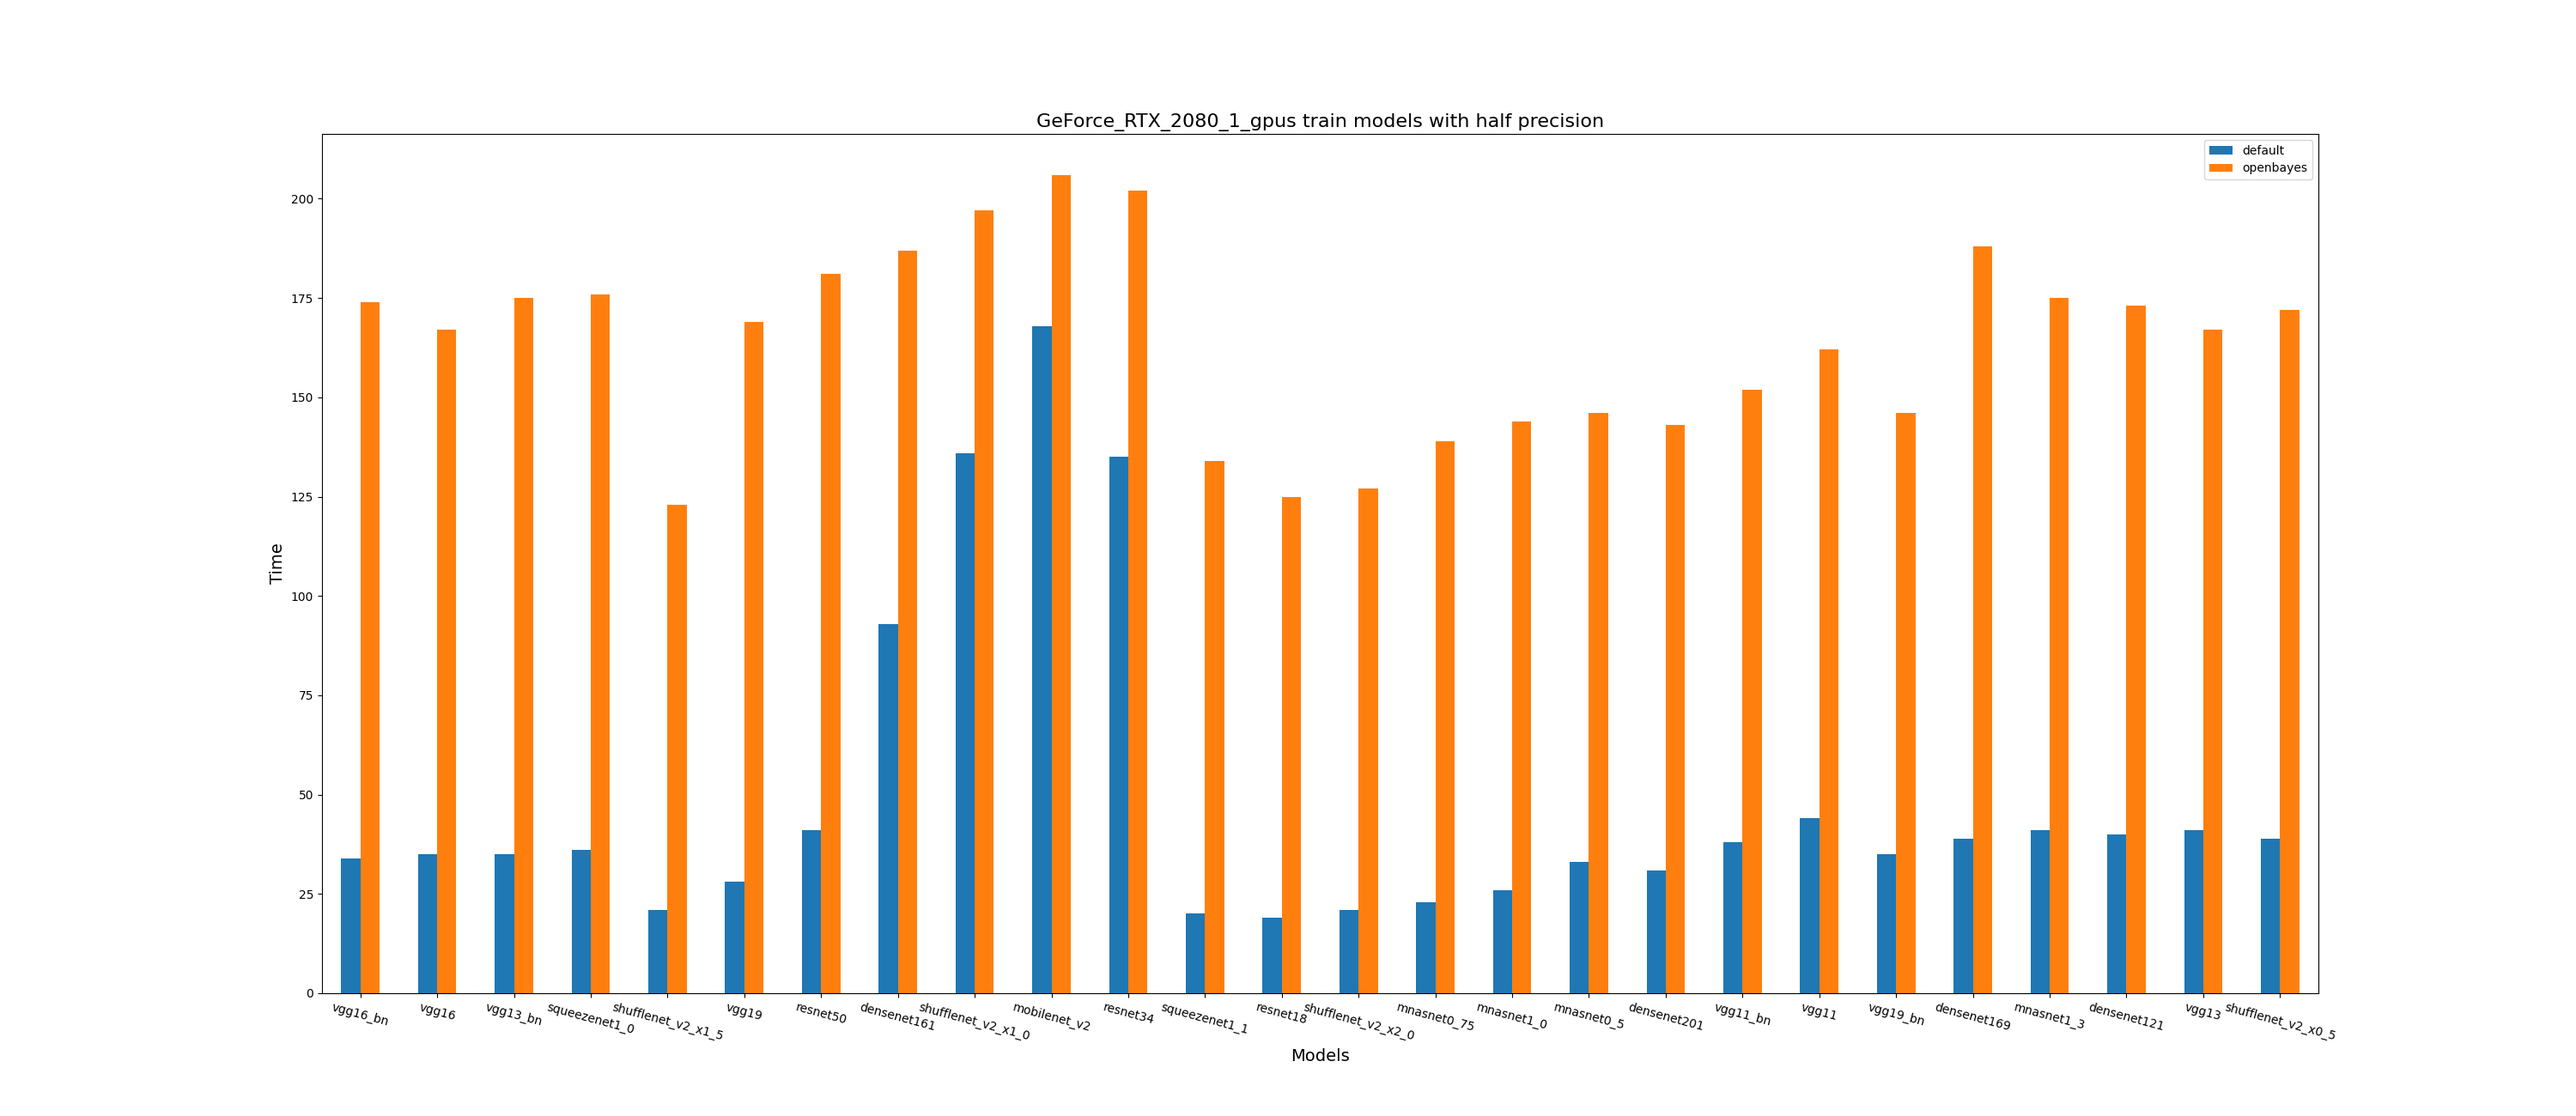
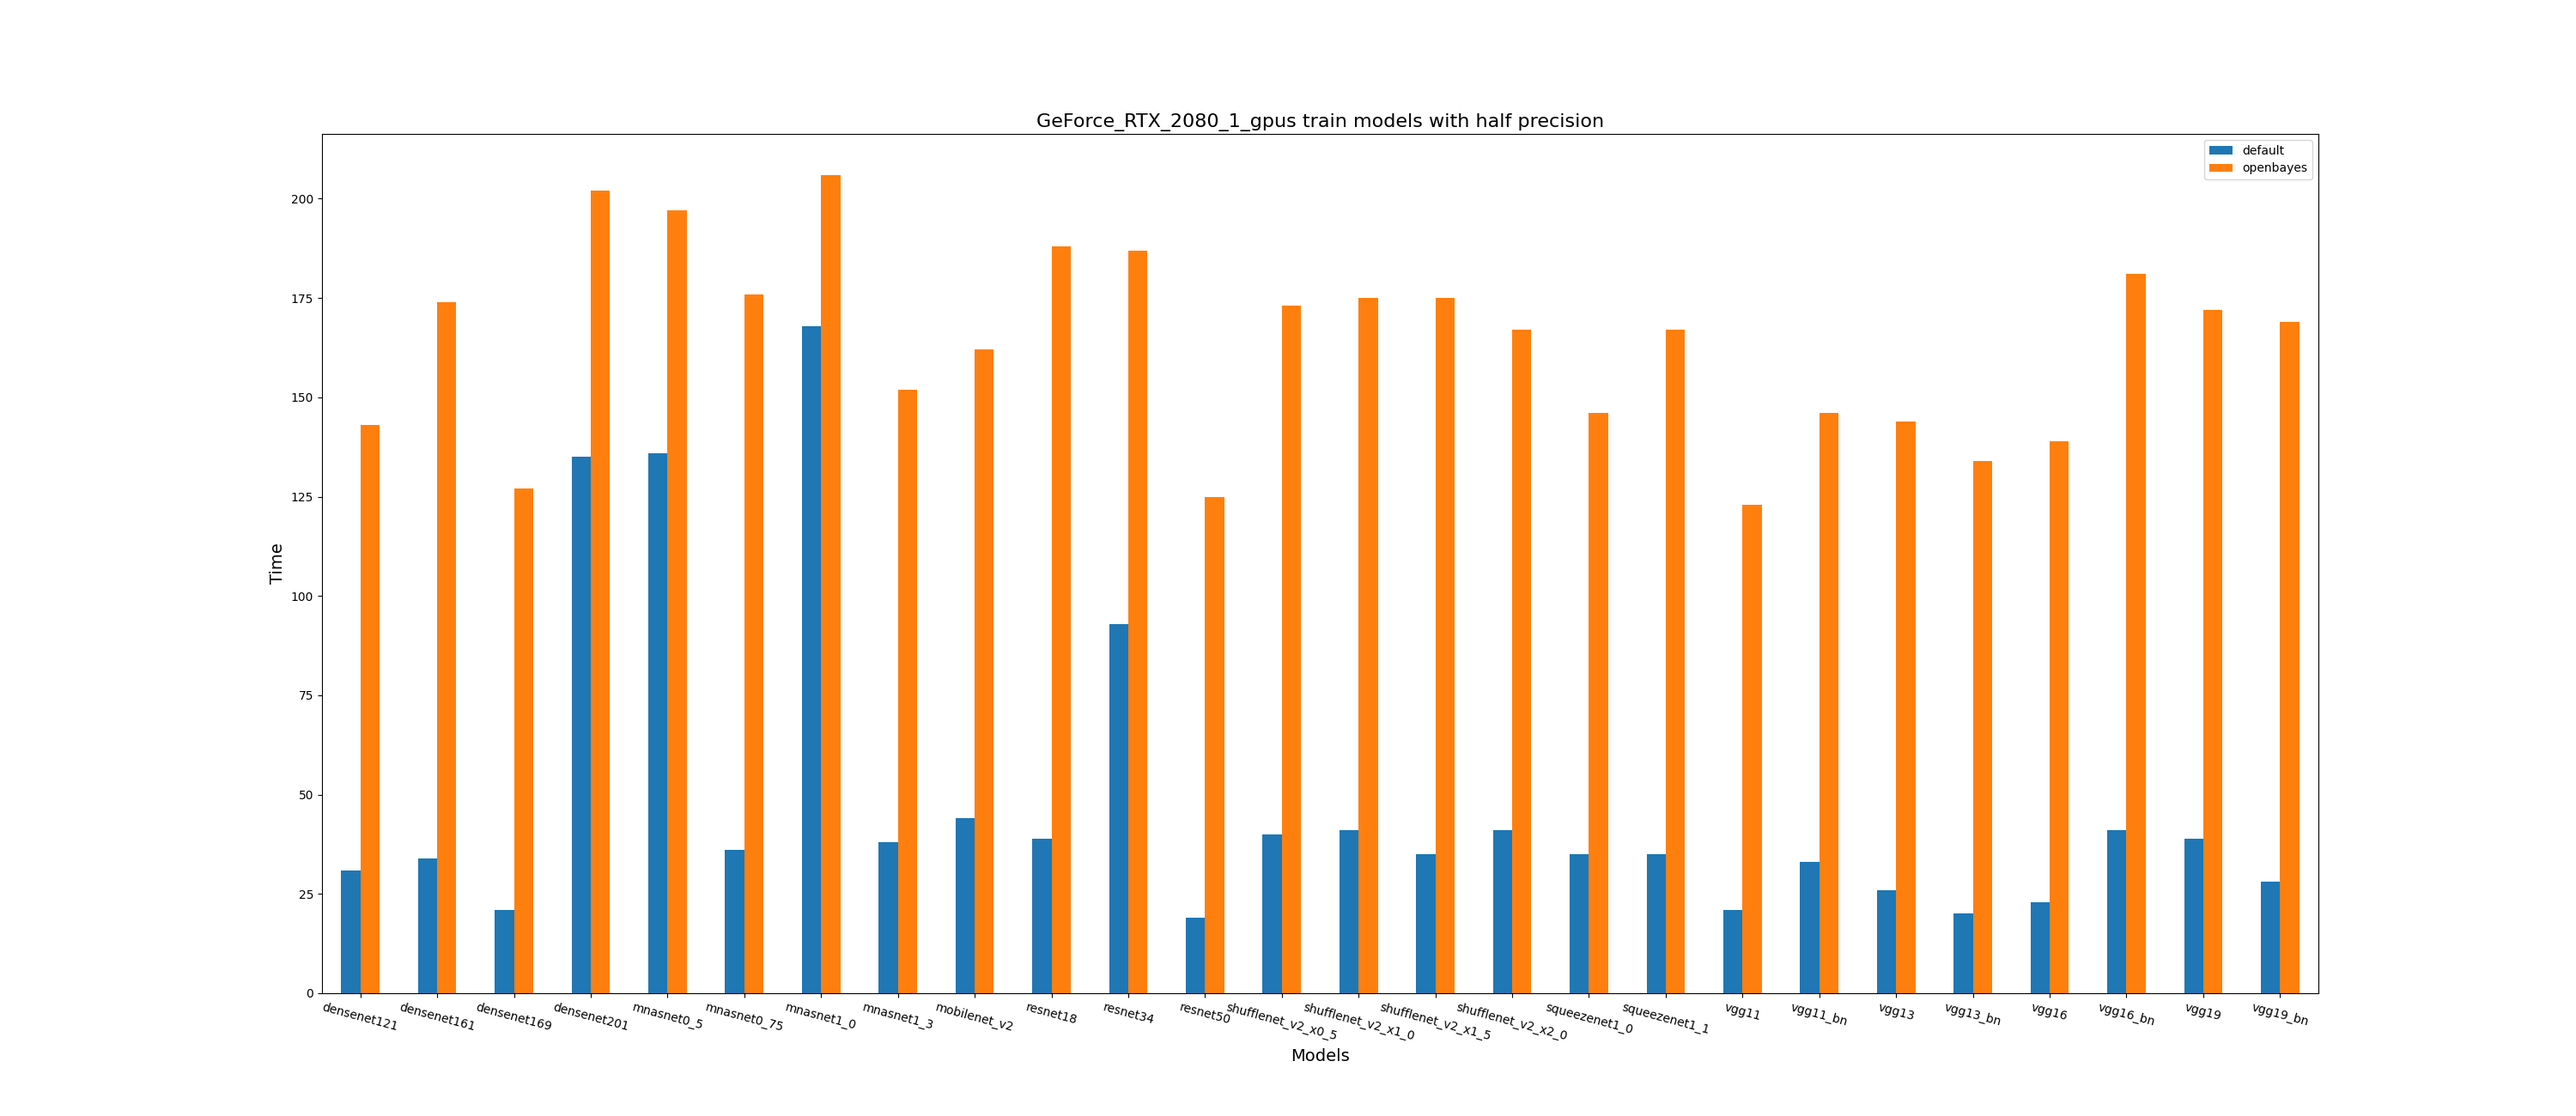
feat(benchmark): sort envs when plot image for benchmark between envs

diff --git a/benchmark_models.py b/benchmark_models.py
@@ -306,9 +306,10 @@ def plot_image_with_models_benchmark_on_special_gpu_between_envs(gpu,phase,preci
         else:
             envs_time_dict[rows.envs] = [rows.time]
 
-    envs_time_dict = {key:value for key,value in sorted(envs_time_dict.items())}
-
     plotdata = pd.DataFrame(envs_time_dict,index = models)
+    plotdata = plotdata.sort_index(axis = 1)
+    plotdata = plotdata.sort_index(axis = 0)
+    
     plotdata.plot(figsize=(30,13),kind="bar",rot=-15)
 
     plt.xlabel("Models",fontsize=14)
@@ -386,11 +387,11 @@ def statistic_experiment_result(env_name,device_name):
         if os.path.isdir(file_path):
             envs.append(file)
 
-    different_models_on_same_gpu(experiment_result,envs)
+#     different_models_on_same_gpu(experiment_result,envs)
 #     compare_between_gpus(experiment_result,envs)
 
     if len(envs) > 1:
-#         compare_between_envs(experiment_result,envs)
+        compare_between_envs(experiment_result,envs)
         pass
 
 
